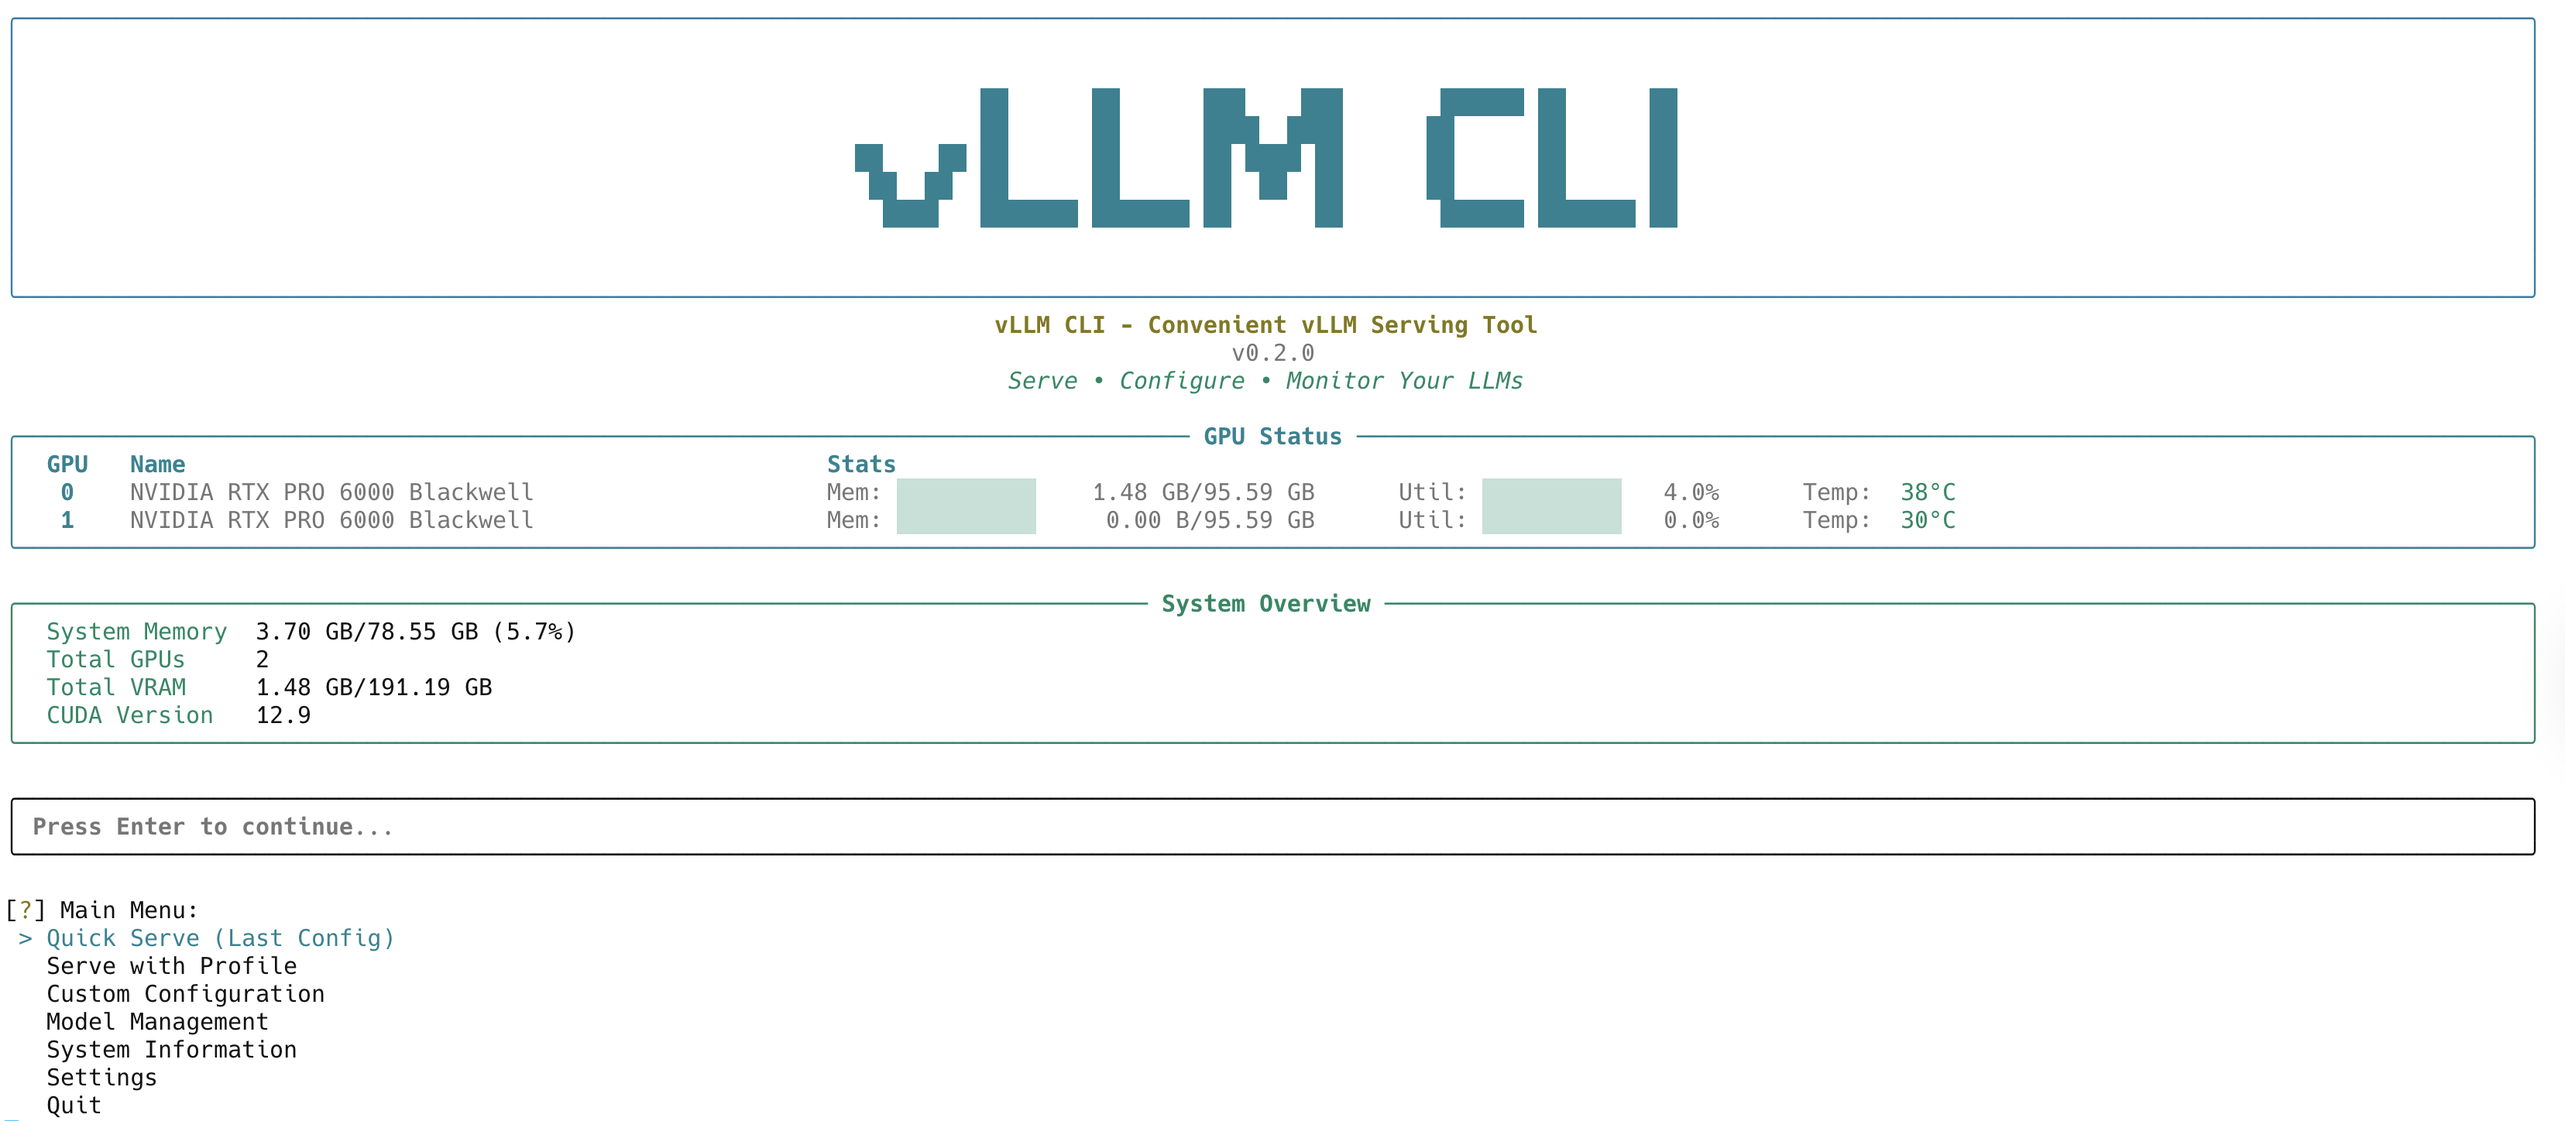
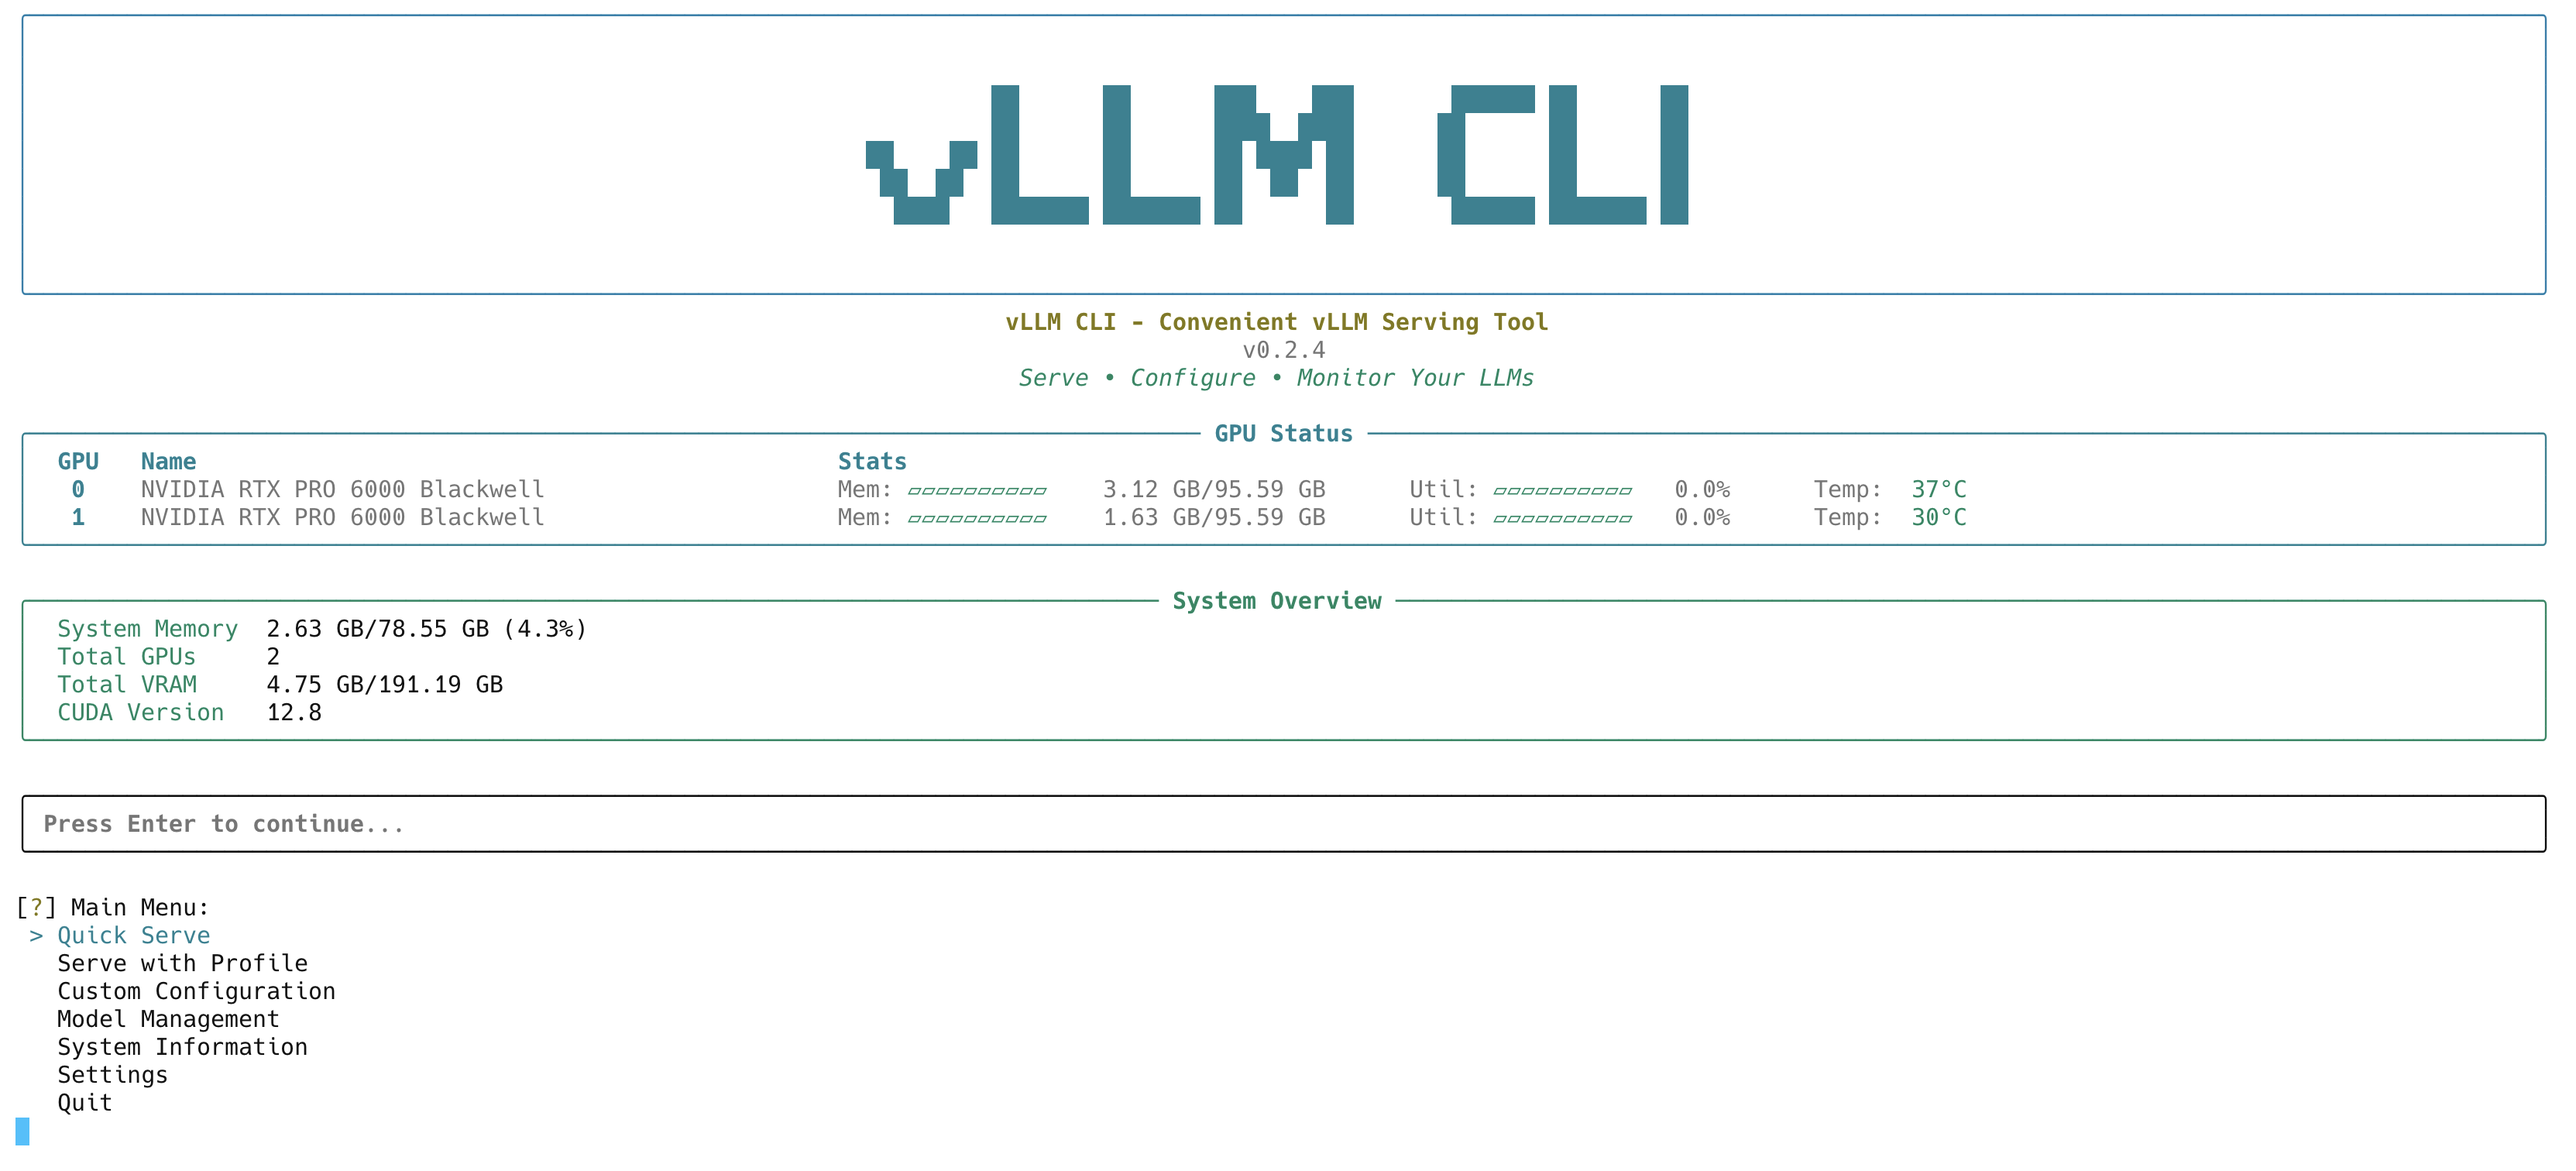
docs: update screenshot on README

diff --git a/README.md b/README.md
@@ -9,7 +9,8 @@
 A command-line interface tool for serving Large Language Models using vLLM. Provides both interactive and command-line modes with features for configuration profiles, model management, and server monitoring.
 
 ![vLLM CLI Welcome Screen](asset/welcome-screen.png)
-*Interactive terminal interface with GPU status and system overview*
+*Interactive terminal interface with GPU status and system overview*<br>
+*Tip: You can customize the GPU stats bar in settings*
 
 ## Features
 
